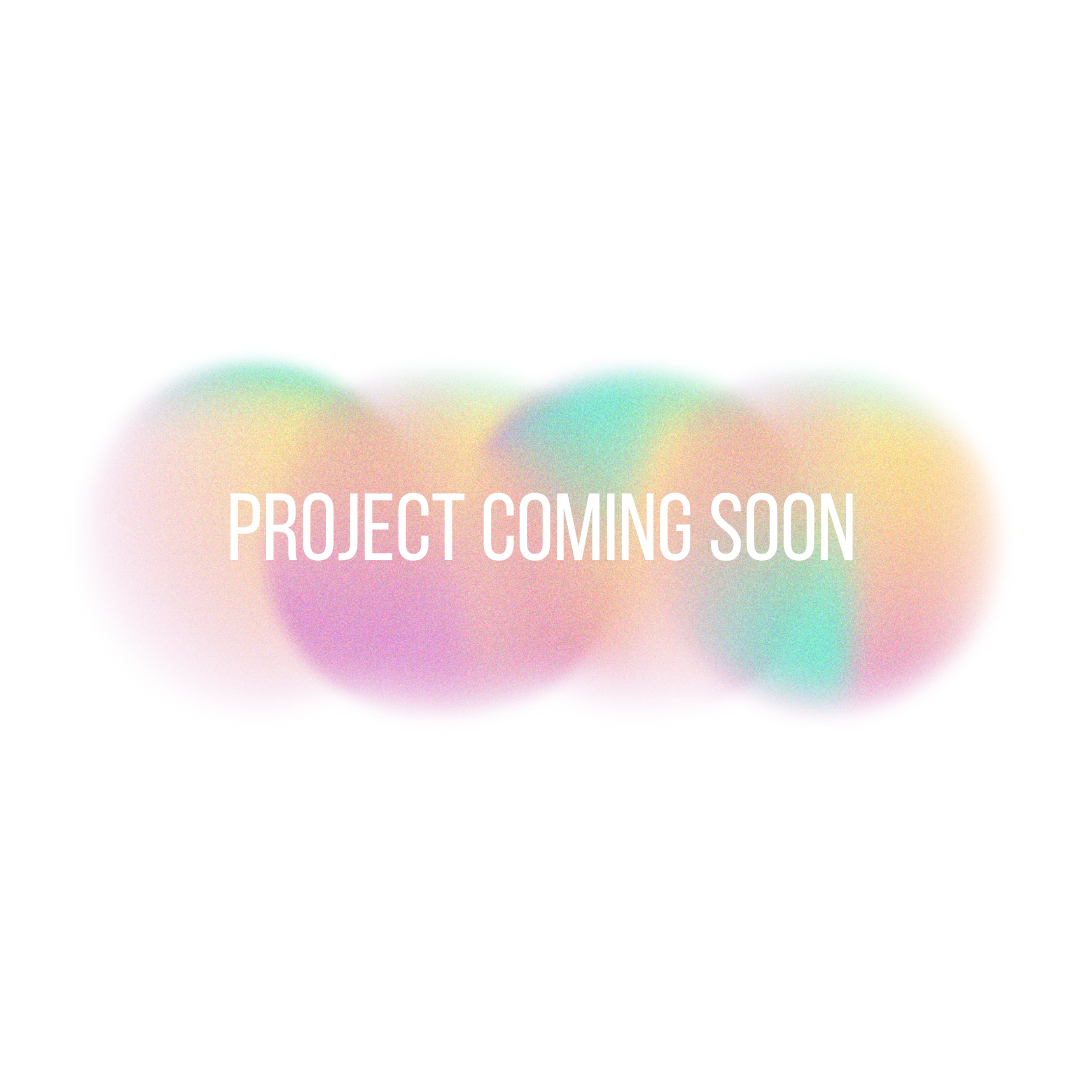
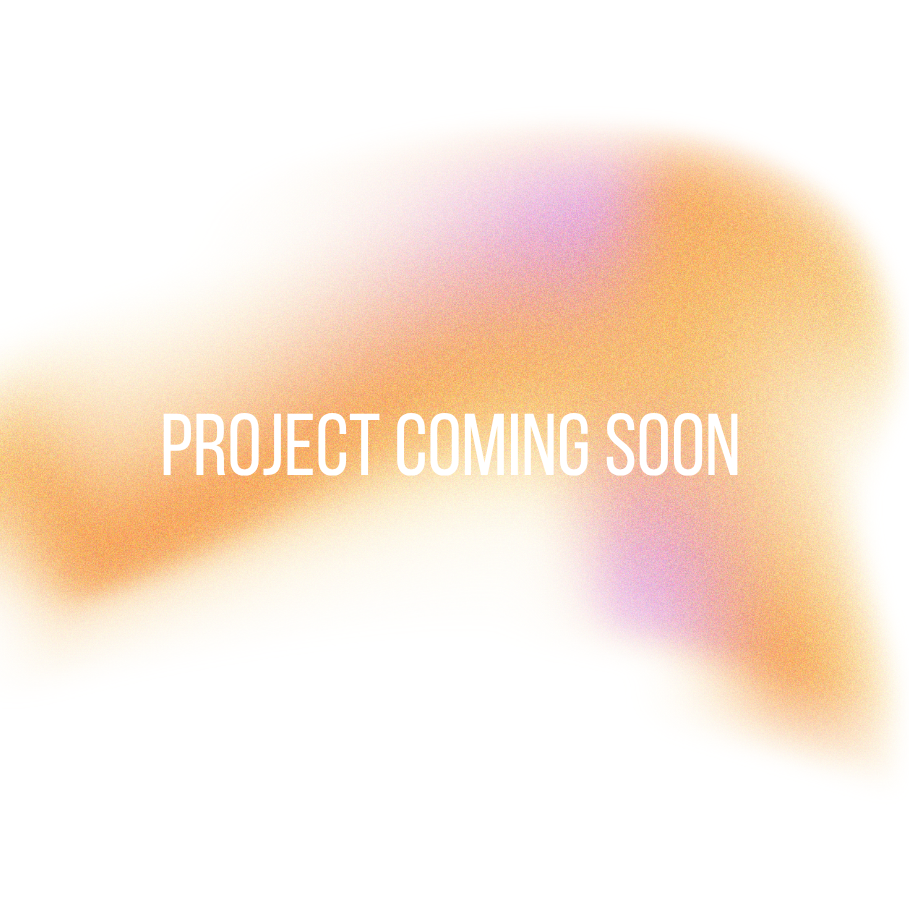
Removed SVG, black background. Semi draft for now

diff --git a/src/ComponentStyling/Projects.css b/src/ComponentStyling/Projects.css
@@ -13,30 +13,31 @@
 }
 
 #Projects {
-    background-color: #201418 ;
+    background-color: #000000 ;
 }
 
 .card_Container:hover {
   transform: scale(0.9); 
   cursor: pointer;
-  background-color: #ffd83a73;
+  background-color: #ff6bc673;
 }
 
 #project_Title {
     font-size: 3.5rem;
     padding-bottom: 2rem;
-    color: black;
+    color: white;
 }
 
 #project_Name {
     font-size: 1.5rem;
     text-align: center;
+    color: white;
     
 }
 
 #project_Desc {
     text-align: center;
-    color: black;
+    color: white;
 }
 
 .p-carousel .p-carousel-items-content {
@@ -54,3 +55,6 @@
     overflow: visible !important;
 }
 
+.p-icon {
+    color: white;
+}

diff --git a/src/Components/Projects.jsx b/src/Components/Projects.jsx
@@ -51,13 +51,14 @@ function Projects() {
 
   return (
     <div className="sticky top-0 h-[100vh] flex flex-col items-center justify-center bg-zinc-800" id="Projects">
-      {/* Background SVG effect */}
+      
+      {/* Background SVG effect
       <SvgFlux
         className="absolute inset-0 z-0"
         gradientRotate="-57"
         stopColor2="hsl(37, 94%, 54%)"
         baseFrequency="0.003 0.003"
-      />
+      /> */}
 
 
       <div className="relative z-10 text-black text-center">
